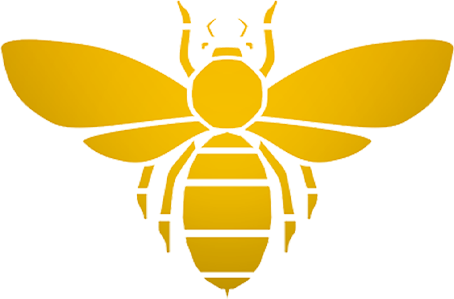
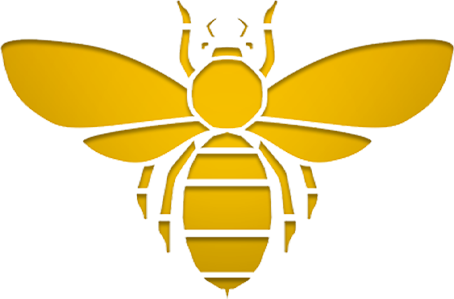
theme adjustments

diff --git a/lib/pages/home.dart b/lib/pages/home.dart
@@ -25,10 +25,9 @@ class MyHome extends StatelessWidget {
         foregroundColor: Theme.of(context).colorScheme.inversePrimary,
 
         // logo
-        title: Image.asset(
-          'assets/beets_4.png',
-          fit: BoxFit.contain,
-          height: 50,
+        title: ImageIcon(
+          AssetImage('assets/beets_4.png'),
+          size: 120,
         ),
 
         // theme switch
@@ -55,11 +54,15 @@ class MyHome extends StatelessWidget {
                     fontSize: 30,
                   ),
                 ),
+
+                SizedBox(
+                  height: 5,
+                ),
                 // subtitle
                 Text(
-                  "on your hive of fashion",
+                  "on your favorite hive of fashion",
                   style: GoogleFonts.josefinSans(
-                    fontWeight: FontWeight.w200,
+                    fontWeight: FontWeight.w300,
                     fontSize: 16,
                   ),
                 ),

diff --git a/lib/main.dart b/lib/main.dart
@@ -2,8 +2,7 @@ import 'package:flutter/material.dart';
 import 'package:minimal_ecommerce_app/models/shop.dart';
 import 'package:minimal_ecommerce_app/pages/cartpage.dart';
 import 'package:minimal_ecommerce_app/pages/home.dart';
-import 'package:minimal_ecommerce_app/themes/darkmode.dart';
-import 'package:minimal_ecommerce_app/themes/lightmode.dart';
+import 'package:minimal_ecommerce_app/themes/apptheme.dart';
 import 'package:provider/provider.dart';
 
 import 'pages/intropage.dart';
@@ -26,7 +25,8 @@ class MyApp extends StatelessWidget {
     return MaterialApp(
       debugShowCheckedModeBanner: false,
       home: const IntroPage(),
-      theme: darkMode,
+      theme: lightMode,
+      darkTheme: darkMode,
       routes: {
         '/intropage': (context) => const IntroPage(),
         '/home': (context) => const MyHome(),

diff --git a/lib/themes/apptheme.dart b/lib/themes/apptheme.dart
@@ -11,3 +11,13 @@ ThemeData lightMode = ThemeData(
     inversePrimary: Colors.grey.shade900,
   ),
 );
+
+ThemeData darkMode = ThemeData(
+  fontFamily: GoogleFonts.josefinSans().fontFamily,
+  colorScheme: ColorScheme.dark(
+    background: const Color.fromARGB(255, 20, 20, 20),
+    primary: Colors.grey.shade900,
+    secondary: Colors.grey.shade600,
+    inversePrimary: Colors.white,
+  ),
+);

diff --git a/lib/components/drawer.dart b/lib/components/drawer.dart
@@ -18,7 +18,10 @@ class MyDrawer extends StatelessWidget {
               SizedBox(
                 height: 180,
                 child: DrawerHeader(
-                  child: Image.asset('assets/beets_4.png'),
+                  child: ImageIcon(
+                    AssetImage('assets/beets_4.png'),
+                    size: 230,
+                  ),
                 ),
               ),
 

diff --git a/lib/components/product_tile.dart b/lib/components/product_tile.dart
@@ -22,7 +22,7 @@ class ProductTile extends StatelessWidget {
       ),
       margin: EdgeInsets.all(10),
       padding: EdgeInsets.all(25),
-      width: 300,
+      width: 280,
       child: Column(
         crossAxisAlignment: CrossAxisAlignment.start,
         mainAxisAlignment: MainAxisAlignment.spaceBetween,

diff --git a/lib/components/list_tile.dart b/lib/components/list_tile.dart
@@ -22,6 +22,7 @@ class MyListTile extends StatelessWidget {
         child: ListTile(
           leading: Icon(
             icon,
+            color: Theme.of(context).colorScheme.inversePrimary,
           ),
           title: Text(text),
         ),
